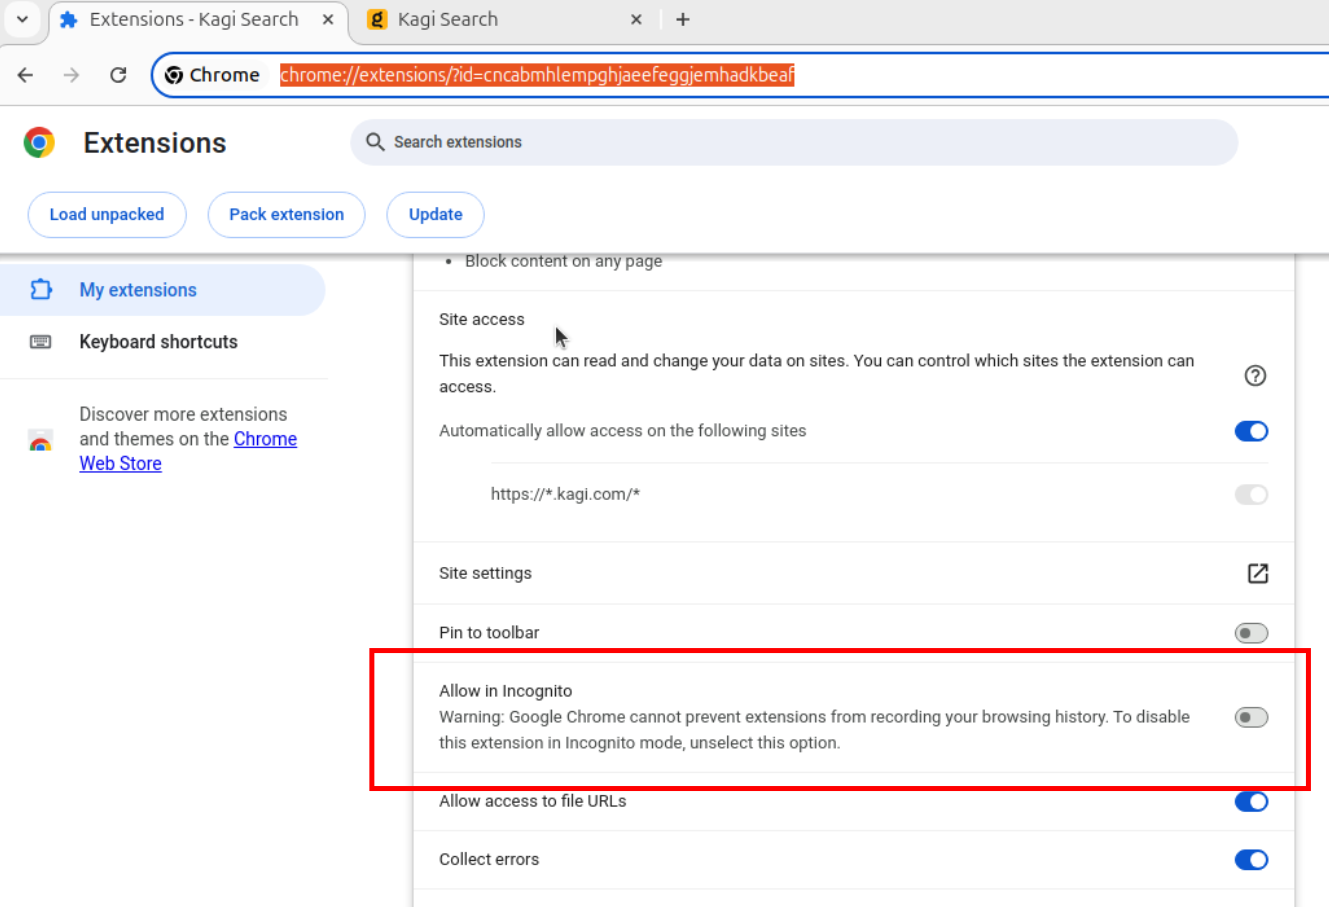
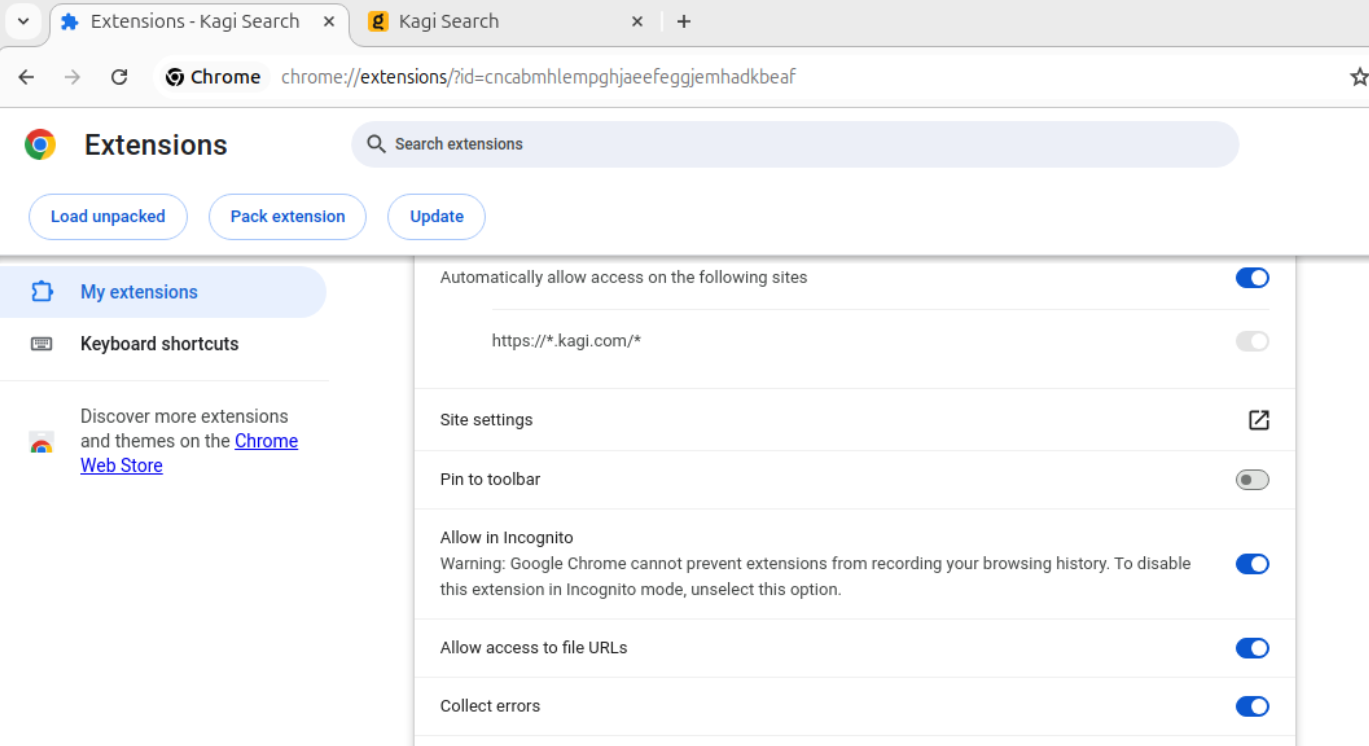
inc

diff --git a/README.md b/README.md
@@ -9,7 +9,7 @@ Install from the [Chrome Web Store](https://chrome.google.com/webstore/detail/ka
 - Preserves your login across private browsing
 
 ## Additional Features
-Kagi has many more features to offer, unfortunately due to [Google Store policies](https://developer.chrome.com/docs/webstore/troubleshooting/#single-use) these must be provided by a separate extension.
+Kagi has many more features to offer, unfortunately due to [Google Web Store Policies](https://developer.chrome.com/docs/webstore/troubleshooting/#single-use) these must be provided by a separate extension.
 
 This extension is not yet available.
 
@@ -17,11 +17,12 @@ This extension is not yet available.
   1. Navigate to the extension's settings page `chrome://extensions`
   1. Click `Details` on the Kagi Search Extension
   - ![Screenshot of Extensions Page](docs/show-extensions.png)
-  2. Scroll down and click `allow incognito`
+  2. Scroll down and enable `Allow in Incognito`
   - ![Screenshot of Extensions Settings](docs/allow-incognito.png)
 
 ## Permissions
-- `Block content on any page`: The Kagi extension only ever works on Kagi.com, see the code for yourself. This permission is unfortunately named.
+- `Block content on any page`
+  - The Kagi extension only ever works on Kagi.com, see the code for yourself. This permission is unfortunately named.
 
 ## Platform Limitations
 As per [Google's Docs](https://developer.chrome.com/docs/extensions/reference/manifest/chrome-settings-override) the API to change the default serarch engine is only available on Windows and Mac.
